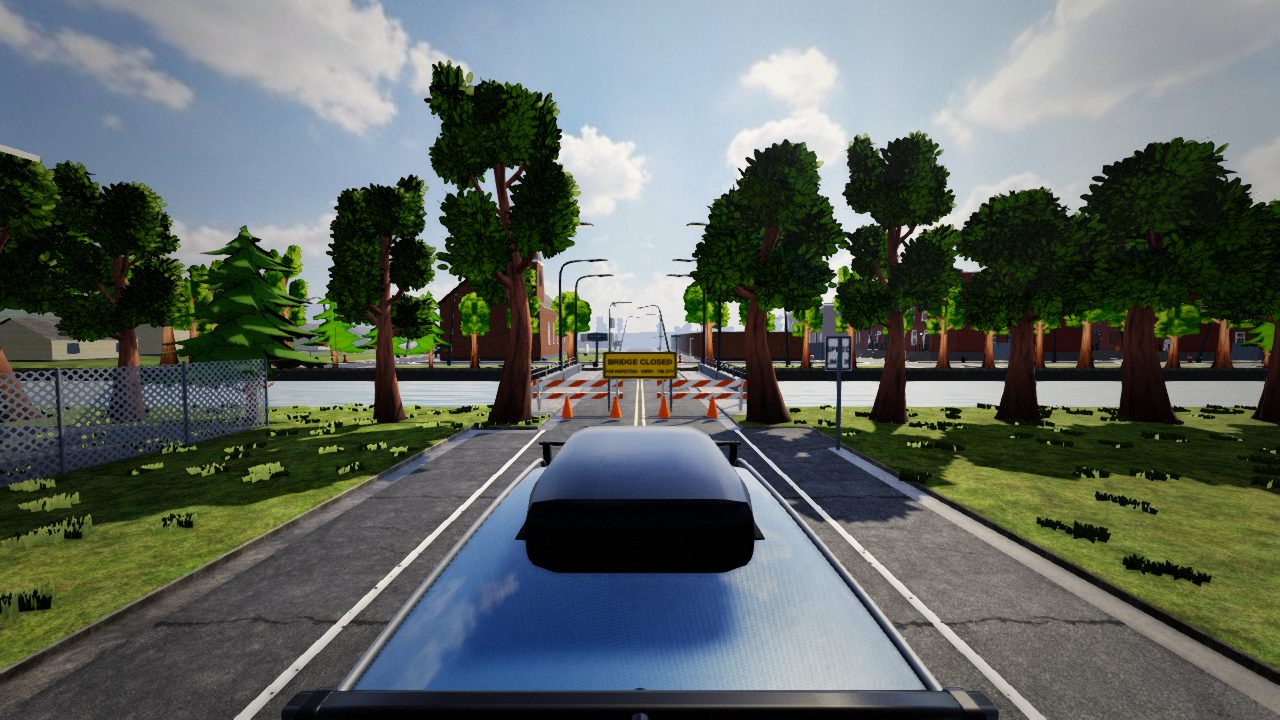
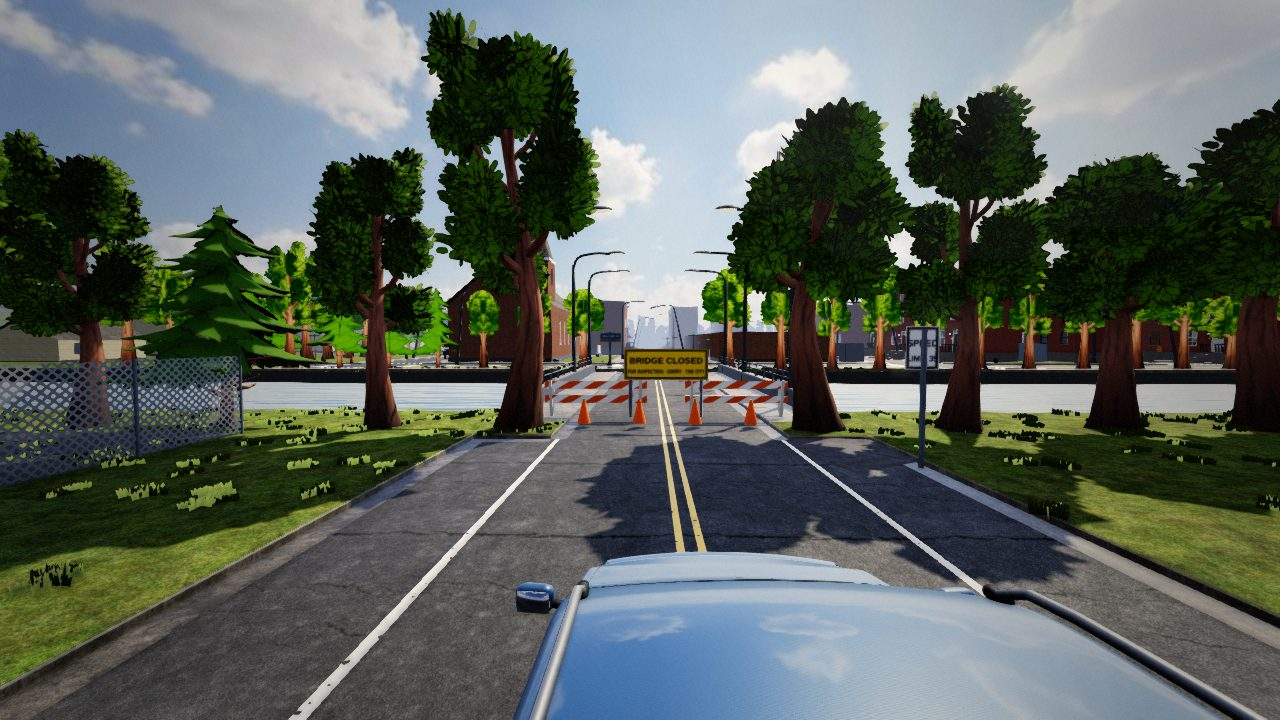
Open world: in-game check script and evidence, car-state reset on teleports, screenshots, README
Claude-Session: https://claude.ai/code/session_01N2EZBFLkHANDRjJ5x6LYKC

diff --git a/dev/openworld-ingame.js b/dev/openworld-ingame.js
@@ -1,0 +1,58 @@
+/* Open world (SPEC2 W1/W2) checks in the real game, headless Chromium + SwiftShader, driven through window.__ht.step().
+   node dev/openworld-ingame.js [--write]   (--write saves docs/screenshots/open-world/evidence.txt)
+   Checks: world is the hub, collider hash == brute force, barricade blocks / open bridge reaches Riverside and laps a block,
+   every mission ring launches its mission and the return restores the van at the ring, GPS + minimap route + fast travel,
+   region banner + Riverside unlock, 3000-step walk/drive fuzz never ends inside a collider, draw-call budgets on Medium and Low. */
+const {open}=require('./ai-ingame-lib.js'),fs=require('fs'),path=require('path');
+const out=[],log=(...a)=>{const s=a.join(' ');out.push(s);console.log(s)};let fails=0;const ok=(c,msg)=>{if(!c)fails++;log((c?'ok   ':'FAIL ')+msg)};
+async function boot(){const r=await open();await r.p.evaluate(()=>{const H=window.__ht;H.enterHub();H.HUD.hide('title');H.step(3);
+  window.__sun=null;H.scene.traverse(o=>{if(o.isDirectionalLight)window.__sun=o});
+  window.__cam=(x,y,z,tx,ty,tz)=>{const c=H.camera;c.position.set(x,y,z);c.lookAt(tx,ty,tz);c.updateMatrixWorld();H.ow.update(c);H.ow.update(c);if(HT.World.update)HT.World.update(H.L,c.position)};
+  window.__measure=()=>{const R=H.renderer,c=H.camera,s=H.scene,sun=window.__sun;R.info.autoReset=false;R.info.reset();R.shadowMap.needsUpdate=true;R.setRenderTarget(null);R.render(s,c);
+    const all={calls:R.info.render.calls,tris:R.info.render.triangles};sun.castShadow=false;R.info.reset();R.render(s,c);const main={calls:R.info.render.calls,tris:R.info.render.triangles};sun.castShadow=true;R.info.autoReset=true;
+    return{main:main.calls,shadow:all.calls-main.calls,tris:main.tris}}});return r}
+const drive=(p,wps,steps,boost)=>p.evaluate(([wps,steps,boost])=>{const H=window.__ht,V=H.VAN,k=H.keys;let wi=0,maxZ=0;
+  for(let s=0;s<steps;s++){const w=wps[wi];const dx=w[0]-V.pos.x,dz=w[1]-V.pos.z;if(Math.hypot(dx,dz)<5&&wi<wps.length-1)wi++;
+    const want=Math.atan2(-dx,-dz);let d=want-V.yaw;while(d>Math.PI)d-=6.283;while(d<-Math.PI)d+=6.283;const near=Math.hypot(dx,dz)<18&&wi<wps.length-1;
+    k.w=true;k.shift=boost;k.a=d>.06;k.d=d<-.06;if((Math.abs(d)>.5||near)&&Math.abs(V.spd)>7){k.w=false;k.s=true}else k.s=false;H.step(1);maxZ=Math.max(maxZ,V.pos.z)}
+  k.w=k.a=k.d=k.s=k.shift=false;H.step(20);return{x:V.pos.x,z:V.pos.z,wp:wi,maxZ,region:H.region}},[wps,steps,boost]);
+(async()=>{const {b,p,errs}=await boot();
+  const s=await p.evaluate(()=>{const H=window.__ht,L=H.L;let bad=0;for(let i=0;i<1000;i++){const q={x:Math.random()*464,z:Math.random()*160},r=Math.random()*2+.2;
+      const a=new Set(L.cgrid(q,r).filter(c=>q.x+r>c.x0&&q.x-r<c.x1&&q.z+r>c.z0&&q.z-r<c.z1)),bb=L.cbrute(q,r);if(bb.length!==a.size||bb.some(c=>!a.has(c)))bad++}
+    const t0=performance.now();H.enterHub();const again=performance.now()-t0;return{id:L.def.id,H:L.g[10][19],bad,cols:L.colliders.length,again,st:H.ow.stats()}});
+  ok(s.id==='world'&&s.H==='H','hub is the world (L.def.id='+s.id+', L.g[10][19]='+s.H+')');
+  ok(s.bad===0,'collider hash equals brute force on 1000 random queries ('+s.cols+' colliders)');
+  log('     first build '+s.st.buildMs+' ms (title screen, start area only; the rest streams in), re-entering the cached world '+Math.round(s.again)+' ms');
+  await p.evaluate(()=>{const H=window.__ht,V=H.VAN;V.pos.set(40,0,41.5);V.yaw=-Math.PI/2;H.syncVan();H.enterVan()});
+  let d=await drive(p,[[200,41.5],[270,42],[330,43]],460,true);ok(d.x<141*2,'closed barricade stops the van (x='+d.x.toFixed(1)+' m, barricade at 282)');
+  await p.evaluate(()=>window.__ht.openBridge());
+  d=await drive(p,[[330,43],[379,43],[379,71],[315,71],[315,43],[420,43]],1100,false);ok(d.wp===5&&d.maxZ>65&&d.region==='river','bridge open: across into Riverside and around the 3rd St / Ash St / River Rd block ('+JSON.stringify(d)+')');
+  for(let i=0;i<4;i++){const r=await p.evaluate(i=>{const H=window.__ht;if(H.mode!=='hub')H.enterHub();const d=H.L.dests[i],V=H.VAN;H.JOB=i;if(!V.on)H.enterVan();V.pos.set(d.x,0,d.z);V.yaw=-Math.PI/2;V.spd=0;if(V.car){V.car.spd=0;V.car.x=d.x;V.car.z=d.z}H.syncVan();H.step(3);
+      const m={mode:H.mode,lvl:H.L.def.id,enemies:H.enemies.length};H.enterHub();H.step(2);return{...m,back:H.L.def.id,dv:Math.hypot(H.VAN.pos.x-d.x,H.VAN.pos.z-d.z)}},i);
+    ok(r.mode==='mission'&&r.back==='world'&&r.dv<.5,'ring '+i+' launches '+r.lvl+' ('+r.enemies+' enemies), back in the world with the van at the ring')}
+  const g=await p.evaluate(()=>{const H=window.__ht;H.JOB=2;H.step(40);const n=H.gps&&H.gps.points.length;const t0=performance.now();for(let i=0;i<10;i++)H.ow.gps({x:39,z:15},H.L.dests[3]);
+    const ms=(performance.now()-t0)/10;const ft=H.fastTravel('auto');return{n,ms,ft}});await p.waitForTimeout(700);
+  const ftp=await p.evaluate(()=>{const H=window.__ht,a=H.WORLD.places.auto;return Math.hypot(H.VAN.pos.x-a.x,H.VAN.pos.z-a.z)});
+  ok(g.n>1,'GPS route to the job site ('+g.n+' points, '+g.ms.toFixed(1)+' ms per solve)');ok(g.ft&&ftp<1,"fast travel to Dad's Auto puts the van on the pin ("+ftp.toFixed(2)+' m)');
+  const rg=await p.evaluate(()=>{const H=window.__ht;if(H.VAN.on){H.VAN.spd=0;H.exitVan()}H.P.pos.set(330,0,43);H.step(3);const w=H.prog.world;return{region:H.region,river:w.visited.river,pins:w.pins.slice()}});
+  ok(rg.region==='river'&&rg.river&&rg.pins.includes('center')&&rg.pins.includes('mart'),'crossing into Riverside: region banner, visited.river, Community Center + Corner Mart pins unlocked');
+  const f=await p.evaluate(()=>{const H=window.__ht,L=H.L,k=H.keys,V=H.VAN,P=H.P;H.JOB=null;let inside=0,ends=0,oob=0;const keys=['w','a','s','d','shift'];
+    const ins=(x,z)=>{for(const c of L.cgrid({x,z},0))if(c.ph!==undefined&&x>c.x0+.05&&x<c.x1-.05&&z>c.z0+.05&&z<c.z1-.05)return c;return null};
+    for(let seg=0;seg<60;seg++){if(seg%4===1&&!V.on&&Math.hypot(V.pos.x-P.pos.x,V.pos.z-P.pos.z)<4)H.enterVan();if(seg%4===3&&V.on){V.spd=0;H.exitVan()}
+      for(const kk of keys)k[kk]=Math.random()<.5;k.w=Math.random()<.8;
+      for(let s=0;s<50;s++){H.step(1);const q=V.on?V.pos:P.pos;if(q.x<0||q.z<0||q.x>464||q.z>160)oob++;if(ins(q.x,q.z))inside++}
+      {const q=V.on?V.pos:P.pos;if(ins(q.x,q.z))ends++}
+      if(seg%10===5){let x,z;do{x=Math.floor(Math.random()*232);z=Math.floor(Math.random()*80)}while(!H.walkable(x,z));if(V.on){V.spd=0;H.exitVan()}P.pos.set(x*2+1,0,z*2+1);H.collide(P.pos,.35);
+        let vx,vz;do{vx=Math.floor(Math.random()*232);vz=Math.floor(Math.random()*80)}while(L.ow.K[vz*232+vx]!=='road'||L.g[vz][vx]!==',');V.pos.set(vx*2+1,0,vz*2+1);V.yaw=Math.random()<.5?0:-Math.PI/2;H.syncVan();P.pos.set(V.pos.x,0,V.pos.z);H.enterVan()}}
+    for(const kk of keys)k[kk]=false;return{inside,ends,oob}});
+  ok(f.ends===0&&f.oob===0,'fuzz: 3000 steps of random walking/driving, never ends a segment inside a collider or out of bounds (transient overlaps: '+f.inside+')');
+  for(const q of['med','low']){const r=await p.evaluate(q=>{const H=window.__ht;H.render.apply(q);H.ow.quality(q);H.ow.buildAll();H.dress(5);
+      const probes={home:[39,15],mapleSE:[177,97],dadsAuto:[221,55],midBridge:[294,43],riversideMain3rd:[379,43],scrapyardGate:[400,127]};const out={};
+      for(const n in probes){const[x,z]=probes[n];if(H.VAN.on){H.VAN.spd=0;H.exitVan()}H.P.pos.set(x,0,z);H.step(2);let w={main:0,shadow:0,tris:0};
+        for(let h=0;h<4;h++){const a=h*Math.PI/2,fx=Math.sin(a),fz=Math.cos(a);window.__cam(x-fx*6,3.2,z-fz*6,x+fx*20,1.5,z+fz*20);const m=window.__measure();w={main:Math.max(w.main,m.main),shadow:Math.max(w.shadow,m.shadow),tris:Math.max(w.tris,m.tris)}}out[n]=w}
+      return out},q);
+    for(const n in r)ok(r[n].main<=450&&r[n].shadow<=120,q+' '+n+': '+r[n].main+' draw calls, '+r[n].shadow+' shadow calls, '+Math.round(r[n].tris/1000)+'k triangles (worst of 4 headings)')}
+  ok(errs.length===0,'no console errors'+(errs.length?': '+errs.slice(0,3).join(' | '):''));
+  log(fails?fails+' FAILED':'all passed');
+  if(process.argv.includes('--write'))fs.writeFileSync(path.join(__dirname,'../docs/screenshots/open-world/evidence.txt'),out.join('\n')+'\n');
+  await b.close();process.exit(fails?1:0)})();

diff --git a/index.html b/index.html
@@ -861,10 +861,12 @@ function owPins(){const def=WORLD,v=prog.world,pins=[];
   for(const id in OW_PIN_KIND){const p=def.places[id];if(!p)continue;const open=v.pins.includes(id);if(p.hood==='river'&&!open)continue;pins.push({id,kind:OW_PIN_KIND[id],label:p.label,x:p.x,z:p.z,fast:open,place:id})}
   MISSIONS.forEach((m,i)=>{const s=def.sites[m.id];if(s)pins.push({id:'site_'+m.id,kind:'site',label:m.place,x:s.ring.x,z:s.ring.z,fast:!!prog.done[i],place:'site:'+m.id})});
   HUD.minimap.setPins(pins)}
+/* teleports: a car's speed also lives in its physics state (e.car) */
+function owStopCar(e){e.spd=0;e.steer=0;const c=e.car;if(c){c.x=e.pos.x;c.z=e.pos.z;c.yaw=e.yaw;c.spd=0;c.steer=0;if('vdx'in c){c.vdx=0;c.vdz=0}}}
 /* enterHub hook: bridge state, coming back from a job puts the van and the crew back at the site's ring */
 function owEnterHub(){const def=WORLD,O=OW();
   if(prog.done[def.bridgeUnlockJob]&&O.openBridge()){owMinimap();banner('ROUTE 9 BRIDGE OPEN','The city finished the inspection. Riverside Flats is across the river.',3.4)}
-  if(OWS.ret){const r=OWS.ret;OWS.ret=null;VAN.pos.set(r.x,0,r.z);VAN.yaw=r.yaw;VAN.spd=0;syncVan();
+  if(OWS.ret){const r=OWS.ret;OWS.ret=null;VAN.pos.set(r.x,0,r.z);VAN.yaw=r.yaw;owStopCar(VAN);syncVan();
     const rt=V3(Math.cos(VAN.yaw),0,-Math.sin(VAN.yaw));P.pos.copy(VAN.pos).addScaledVector(rt,-2.4);collide(P.pos,.35);P.yaw=VAN.yaw}
   OWS.region=null;OWS.gps=null;OWS.gpsKey='';OWS.moodK=null;owPins();O.dress(prog.trustR)}
 /* updHub hook: region banners, trust dressing, GPS route + ground chevrons */
@@ -905,7 +907,7 @@ function owChevrons(){if(!OWS.chev){const sh=new THREE.Shape();sh.moveTo(-.45,-.
 function owFastTravel(pin){if(!L||!L.ow||mode!=='hub'||!pin||!pin.place||!pin.fast)return false;
   if(!(VAN.on||Math.hypot(P.pos.x-VAN.pos.x,P.pos.z-VAN.pos.z)<30)){HUD.feed('Get back to the minivan to fast travel','info');return false}
   let p;if(pin.place.startsWith('site:')){const s=WORLD.sites[pin.place.slice(5)];p={x:s.ring.x,z:s.ring.z-4,yaw:-Math.PI/2}}else p=WORLD.places[pin.place];if(!p)return false;
-  const go=()=>{if(!VAN.on&&typeof enterVan==='function')enterVan();const e=(typeof CV!=='undefined'&&CV)||VAN;e.pos.set(p.x,0,p.z);e.yaw=p.yaw!=null?p.yaw:-Math.PI/2;e.spd=0;e.steer=0;if(typeof syncCar==='function')syncCar(e);else syncVan();P.pos.set(e.pos.x,0,e.pos.z);P.yaw=e.yaw;
+  const go=()=>{if(!VAN.on&&typeof enterVan==='function')enterVan();const e=(typeof CV!=='undefined'&&CV)||VAN;e.pos.set(p.x,0,p.z);e.yaw=p.yaw!=null?p.yaw:-Math.PI/2;owStopCar(e);if(typeof syncCar==='function')syncCar(e);else syncVan();P.pos.set(e.pos.x,0,e.pos.z);P.yaw=e.yaw;
     for(const a of allies)a.pos.set(e.pos.x,0,e.pos.z);sunFollow(e.pos.x,e.pos.z);OWS.gpsKey='';const O=OW();if(O)O.update(camera)};
   let f=$('owFade');if(!f){f=document.createElement('div');f.id='owFade';f.style.cssText='position:fixed;inset:0;background:#c9dcea;opacity:0;pointer-events:none;transition:opacity .35s;z-index:50';document.body.appendChild(f)}
   f.style.opacity='1';setTimeout(()=>{go();f.style.opacity='0';HUD.feed('Saved you '+Math.max(8,Math.round(Math.hypot(p.x-P.pos.x,p.z-P.pos.z)/14))+' seconds and one argument about directions.','info')},360);return true}

diff --git a/dev/README.md b/dev/README.md
@@ -56,3 +56,19 @@ HT.CarAI.simulateChase({seed, carType, max, vehicle, crew, gap, trace})
 - `node dev/ai-ingame.js [--missions 0,1,2,3] [--no-shots]` — loads `index.html` in headless Chromium (SwiftShader), plays every mission with a scripted dad through `window.__ht.step()`, and checks cover against the dad's real camera and shoulder rays, crouch hitbox heights, fire tokens, flankers, boss phases, waves, crew vs camera, stacking, and the surrender/zip-tie/trust rules. It writes `docs/screenshots/ai-ingame/evidence.txt`, `evidence.json` and jpg screenshots.
 - `node dev/ai-ingame-fair.js [--seeds 6] [--write]` — win rate and health per mission for a steady and a casual scripted player.
 - `dev/ai-ingame-lib.js` serves the repo to the browser through Playwright request routing (no server process) and pauses the page's own loop once assets are loaded; `dev/ai-ingame-bot.js` and `dev/ai-ingame-probe.js` are injected into the page.
+
+## Open world in the game (`js/openworld.js`, SPEC2 W1/W2)
+
+`HT.OpenWorld` renders the `HT.WorldGen.build()` def as the hub (`HUB=WORLD` in index.html; the old street grid `HUB_SMALL` is the fallback when a module is missing).
+`js/worldgen.js` is exposed as `HT.WorldGen` because `js/world.js` (the dressing module) also claims `HT.World`.
+
+- **Units**: 24 chunks (32x32 tiles) built lazily near the camera, plus mission sites and set pieces (river, bridge + barricade, Fill-Er-Up, church, court, Route 9 signs/frontage, Riverside dressing, backdrop). Visible = distance (tied to fog) + frustum.
+- **Reuse**: each chunk runs `HT.World.ground/tree/streetLamp/yard/hedge/crate/fence/walls/finish` on a windowed builder (triangles clipped to the chunk), `HT.Buildings` houses/shops/shells merged per material, `HT.Vehicles` LOD1 parked cars registered through `regCar`.
+- **LOD**: street furniture within 65 m, tufts 36 m, trim/markings 110 m (Medium); tree impostors one step nearer than the small hub; buildings cast through one shadow-only caster per chunk (layer 1, seen by the sun's shadow camera).
+- **Collision**: static colliders from the grid in a 16 m hash (`L.cgrid`, used by `collide`), dynamic ones (cars, van) after `L.nStatic`; `ph` = raycast proxy height, `h` only on low colliders (crate, table, hedge, bed). Raycasts use invisible proxies within 80 m (`L.solids`, refreshed every 0.5 s).
+- **API**: `OW.build(def,lvl,ctx)`, `update(camera)`, `dress(trustR)`, `openBridge()`, `gps(from,to)`, `regionAt(x,z)`, `buildAll()`, `quality(q)`, `stats()`, `reset(lvl)` (cache reuse).
+- **Hooks in index.html** (OPEN WORLD block): `owLevel` (buildLevel's world branch, cached), `owEnterHub` (bridge after Rick's job, return to the ring), `owUpdate` (region banners, Riverside mood blend, GPS route + chevrons), `owFastTravel` (map pins), `owShops` (meta shop doors). `__ht`: `WORLD, ow, region, gps, chunks, openBridge(), fastTravel(id), dress(t), drawCalls()`.
+
+```
+node dev/openworld-ingame.js [--write]   # in-game checks + budgets -> docs/screenshots/open-world/evidence.txt
+```
